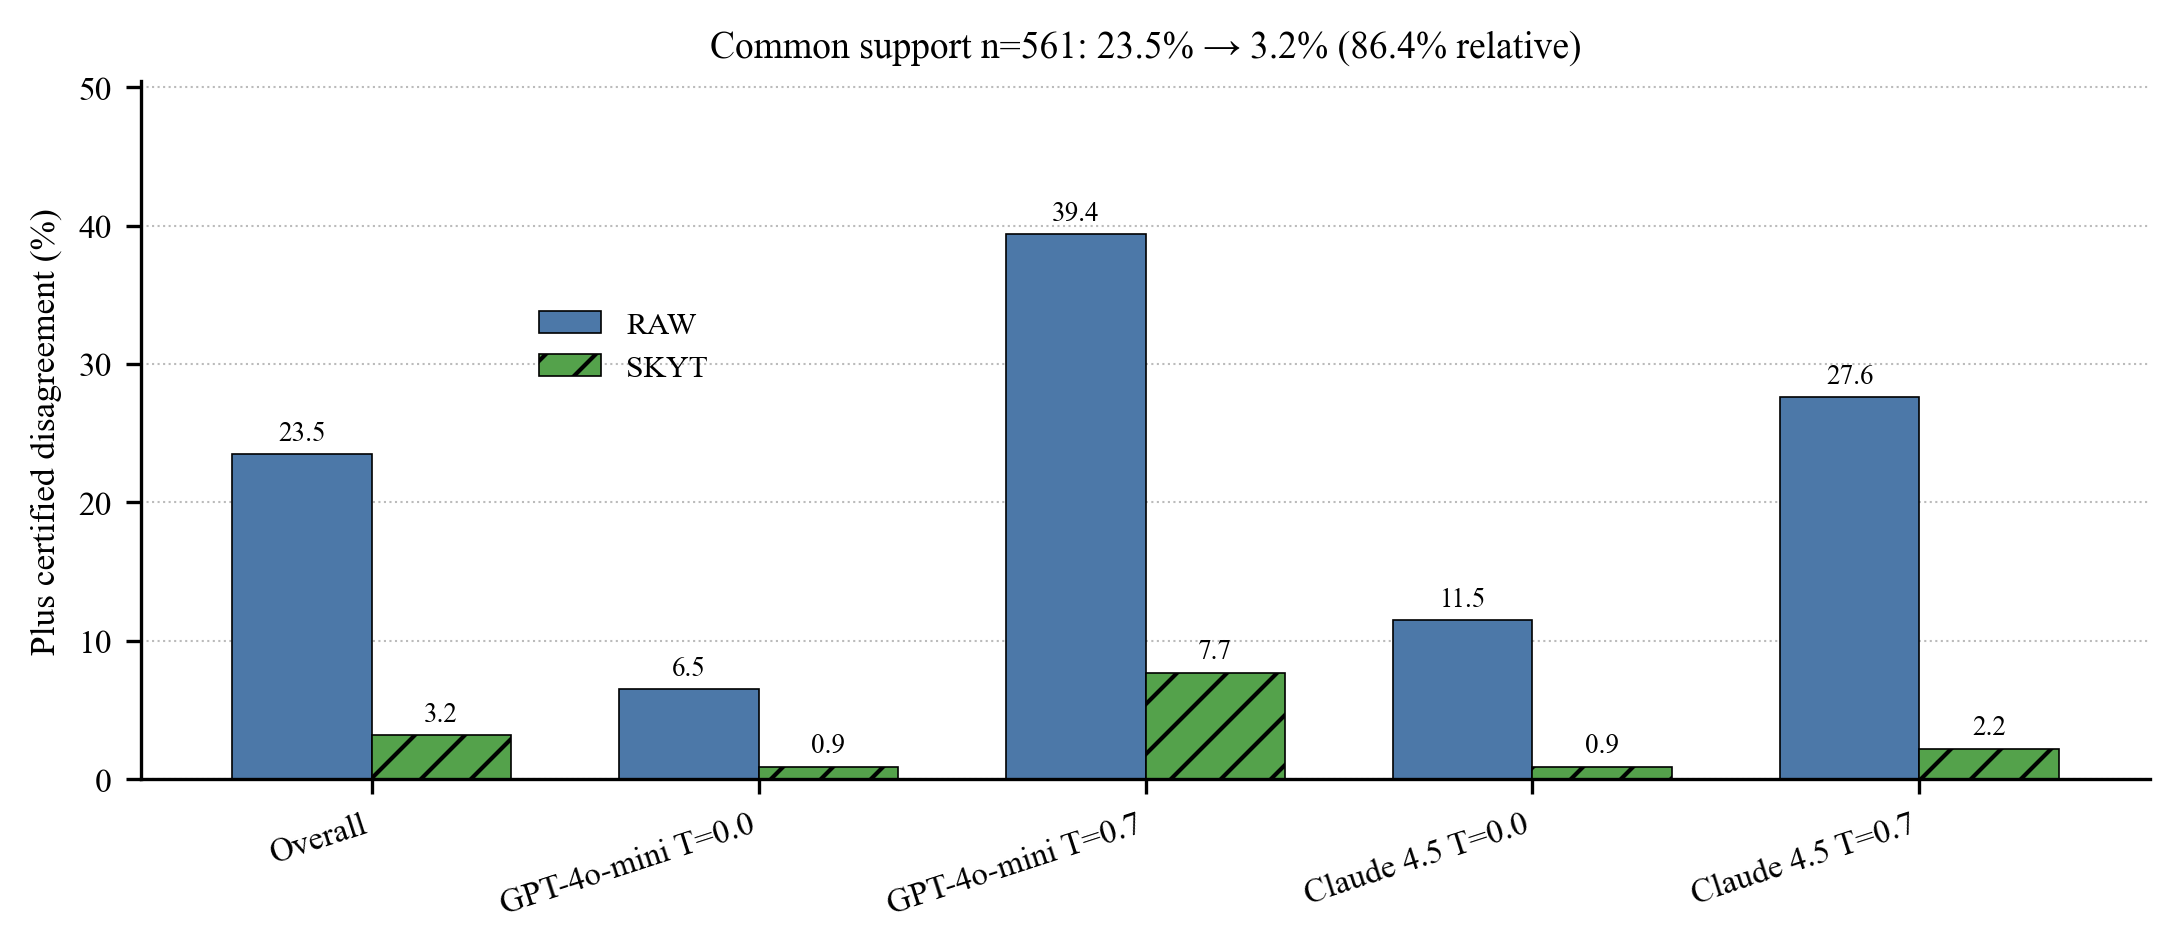
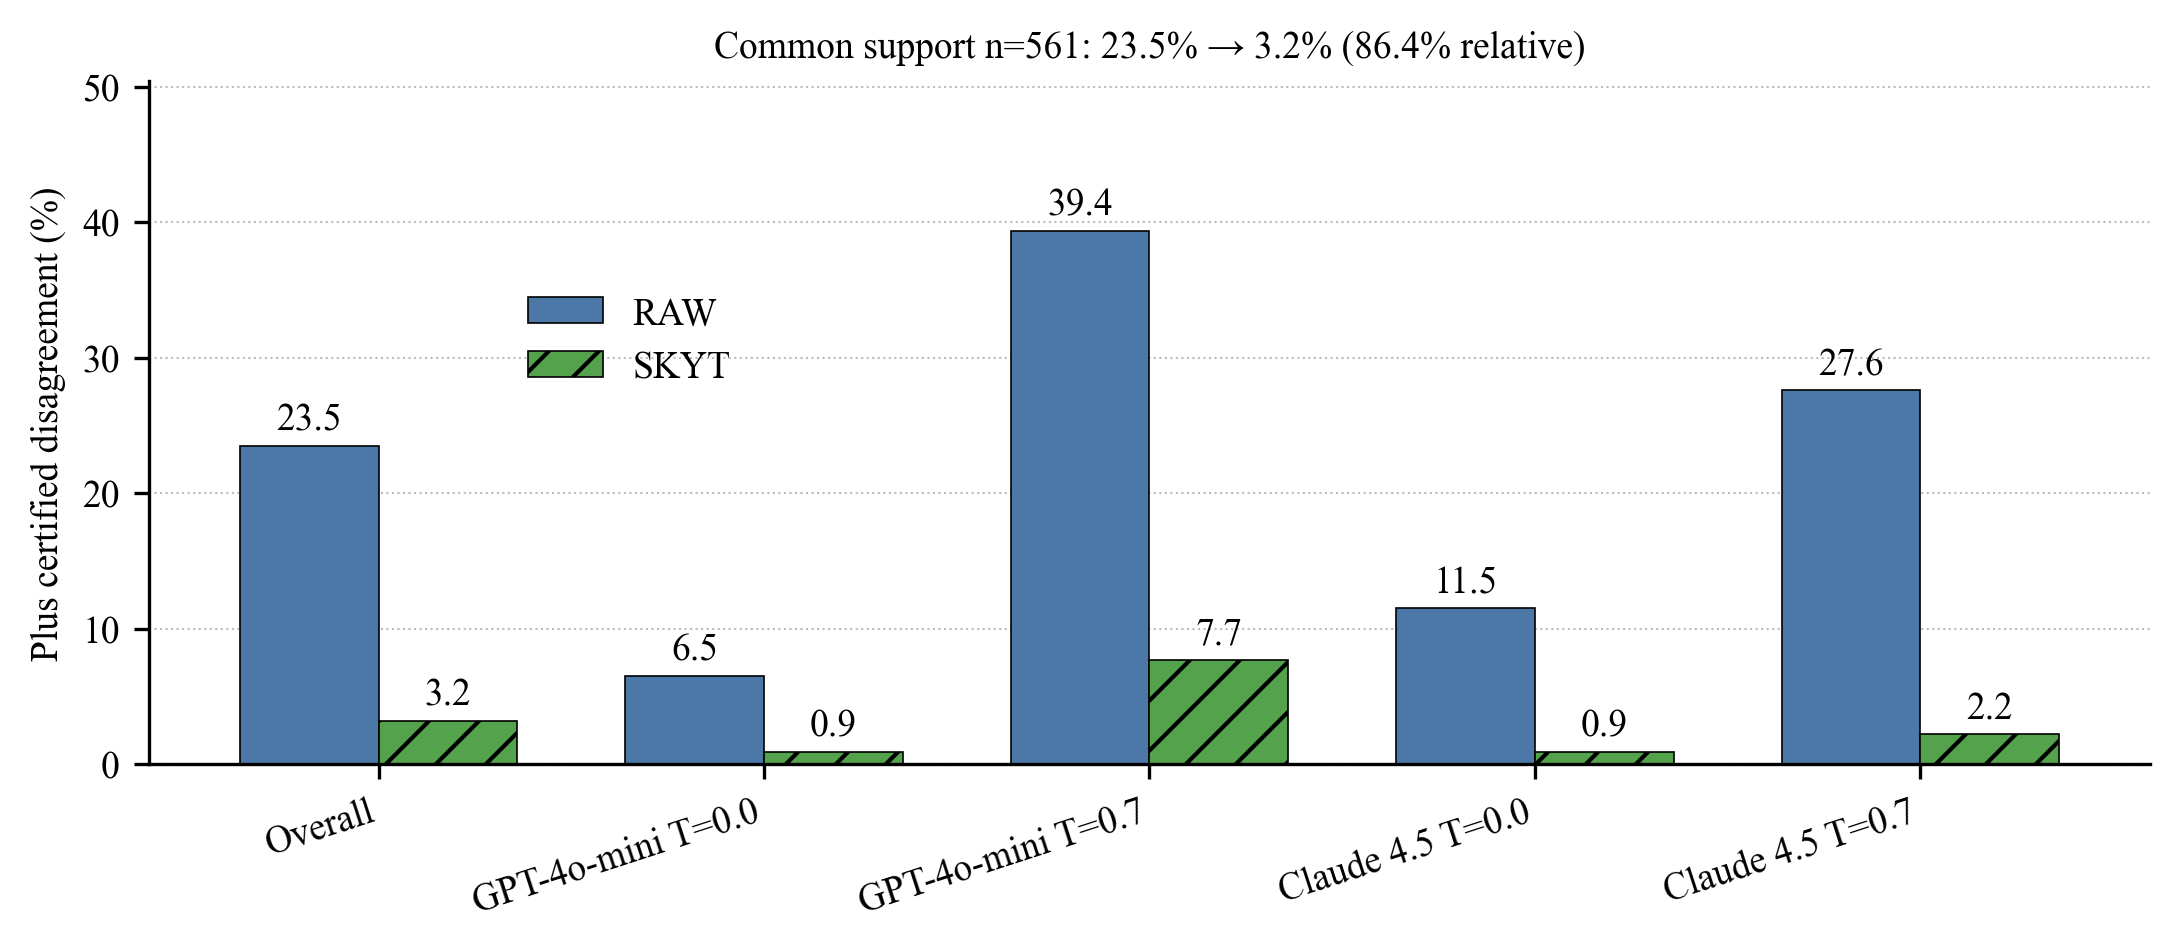
Apply the FSE round-3 corrections and include the dated RQ3 analysis plan.

diff --git a/paper/fse2027/main.tex b/paper/fse2027/main.tex
@@ -157,7 +157,7 @@ four questions.
         is 67.7\%; temperature lowers \sameat{} while Plus pass moves by at most 0.8 points (every CI within $\pm$2.4); generation
         can be repeatably wrong, so \sameat{} is not a proxy for hidden-test
         correctness (exploratory); and among mitigation policies, a stored
-        program is the ceiling on static prompts while \skyt{}~\cite{roriz2026skytmsr}'s lift comes
+        program is the ceiling on static prompts while the lift of \skyt{}~\cite{roriz2026skytmsr} comes
         from canonical substitution.
   \item An artifact with all generations, the scorer, a protocol checklist,
         and recompute commands (Data Availability).
@@ -394,6 +394,12 @@ Its output budget was 16{,}000 tokens (2{,}048 for the other models); one
 response exceeded 2{,}048 output tokens, so the larger budget affected at most one of 3{,}280 responses (thinking tokens included).
 Expansion generations used the Batch API; the original two models were called
 synchronously.
+Returned identifiers:
+GPT-4o-mini (alias; generated 17--18 September 2026);
+Claude Sonnet 4.5 \path{claude-sonnet-4-5-20250929} (generated 16--18 September 2026);
+Claude Haiku 4.5 \path{claude-haiku-4-5-20251001} (generated 24--25 September 2026);
+GPT-6 Luna \path{gpt-6-luna} (alias; generated 24--25 September 2026);
+Claude Sonnet 5 \path{claude-sonnet-5} (alias; generated 24--25 September 2026).
 Completions are stitched onto the prompt and scored in network-disabled
 Docker; untrusted code is never executed on the host.
 Fingerprints use \texttt{relation\_version}=2.
@@ -434,7 +440,7 @@ No repaired (post-\skyt{}) programs were labeled.
 \subsection{Exploratory analysis (RQ3)}
 We ask whether form diversity among Base-passing programs carries information
 about Extra-test failure beyond the Base pass rate.
-The analysis was pre-registered on the original overlay; the replication uses
+The analysis was pre-specified on the original overlay, in a dated analysis plan included in the artifact; the replication uses
 all five models (1{,}476 configurations, including Sonnet 5).
 Forms are fingerprint classes computed only on Base-passers.
 A program's modal form is the largest class among the other Base-passers in
@@ -449,7 +455,7 @@ Confirmatory: the RQ1 gap; RQ2 human agreement (pre-specified protocol) and
 rank comparison (pre-specified decision rule); RQ4 held-out $\Delta$\sameat{},
 certified disagreement, and temperature interaction.
 Descriptive: RQ2 reliability.
-Exploratory: RQ3 (pre-registered on the original overlay; five-model
+Exploratory: RQ3 (pre-specified on the original overlay; five-model
 replication).
 Post hoc: the paired temperature CIs in Table~\ref{tab:temperature}; the
 prevalence-reweighted human rates in Section~\ref{sec:rq2}; the
@@ -490,7 +496,7 @@ the statistical design, and check the manuscript against computed results:
 ChatGPT 5.6 Sol (High), Claude Opus 5.5, and Grok 4.7 (High) through Cursor.
 All reported numbers are printed by the scripts listed in Data Availability.
 The authors made all design and interpretation decisions; the exploratory
-analyses were pre-registered in writing before computation.
+analyses were pre-specified in writing before computation.
 Outputs were verified in four ways: every reported number is produced by a
 script in the artifact and was checked against its JSON output; rescoring the
 original overlay with the current code reproduces its numbers exactly; the
@@ -729,11 +735,11 @@ $N{=}10$.}
 \subsection{RQ3: Repeatability and hidden-test correctness}
 \label{sec:rq3}
 
-The analyses below were pre-registered on the original overlay and are
+The analyses below were pre-specified on the original overlay and are
 exploratory; the five-model pool (1{,}476 configurations, including Sonnet 5)
 is a replication, and the uniformity check is post hoc.
 
-On the pre-registered overlay, form diversity carried no detectable signal
+On the pre-specified overlay, form diversity carried no detectable signal
 about hidden-test failure beyond the pass rate (Table~\ref{tab:diversity-signal}, Figure~\ref{fig:diversity-signal}).
 Among Base-passing programs, modal and non-modal forms survived Extra tests at
 rates within 1.4 points of each other ($\Delta{=}0.06$ points [$-1.4$, 1.4]).
@@ -752,16 +758,15 @@ Task-level factors such as specification ambiguity may drive both.
 
 Configurations whose Base-passing programs all shared one form still failed
 Extra tests 10.7\% of the time: generation can be repeatably wrong.
-When any Base-passer failed Extra tests, all of them failed in 65.0\%
-[50.0, 80.3] of configurations (five-model replication: 53.0\%
-[39.6, 66.7]), consistent with a shared misreading of the specification
-rather than the quirks of one form.
+When any Base-passer failed Extra tests, all of them failed in 53.3\%
+[34.7, 72.0] of configurations that have at least two distinct Base-passing
+forms (five-model replication: 41.5\% [27.8, 56.0]) (post hoc uniformity check).
 
 \begin{table}[t]
   \small
   \setlength{\tabcolsep}{4pt}
   \caption{Diversity and Extra-test failure (exploratory).
-    Rows ``original'' are the pre-registered overlay (GPT-4o-mini, Claude
+    Rows ``original'' are the pre-specified overlay (GPT-4o-mini, Claude
     Sonnet 4.5; 656 configs); rows ``replication'' pool all five models
     (1{,}476 configs).
     A1: Extra survival of modal versus non-modal Base-passers.
@@ -972,7 +977,7 @@ Canonical substitution can produce a lift at least as large as live \skyt{};
 live \skyt{} is the more conservative policy.
 Level 3 does not invent an algorithm: it pastes a stored verified function.
 The dominant source of zero gain is the absence of a certified train consensus
-(87 of 656 configurations).
+on the Base oracle-split design (29 of 656 configurations).
 The largest lifts match the mechanism: for HumanEval/83 under GPT-4o-mini at
 $T{=}0.7$, pre-\sameat{} is near 0 and \skyt{} rewrites the test slice onto the
 train form (post \sameat{} 1.0; Plus pass 29\% $\to$ 100\%); for HumanEval/109
@@ -1003,9 +1008,10 @@ from 4.9\% to 100\%.
 The lift survives all three rulers ($+14.9$, $+15.4$, $+17.1$ points;
 Table~\ref{tab:fingerprint}). These come from a persist replay of the repaired programs, which matches the held-out run in Table~\ref{tab:heldout} ($66.1\rightarrow 83.1$, $+17.0$) to 0.1 points.
 Using the full Plus suite during repair yields an almost identical effect
-($+17.0$ [14.5, 19.6]; Plus pass $+2.4$ [1.5, 3.5]; the \sameat{} effect equals the headline at the reported precision (same bootstrap seed); certified disagreement
+($+17.0$ [14.5, 19.6]; Plus pass $+2.4$ [1.5, 3.5]; certified disagreement
 23.2\% $\to$ 3.5\% on 562 configs), so the result does not depend on which
 tests \skyt{} sees.
+The \sameat{} effect equals the headline at the reported precision; both runs use the same bootstrap seed.
 Nested split counts $B\in\{20,50,100,500\}$ move the lift from $+17.1$ (persist replay) to
 $+17.3$ points, inside the original interval.
 
@@ -1057,7 +1063,7 @@ agrees with human judgment (step~6) before drawing conclusions from comparisons 
     5. Report together &
       Report pass rate, \sameat{}, and \sameatc{} with its drop count, with
       task-cluster bootstrap CIs. Never report \sameatc{} alone. &
-      Pass and \sameat{} diverge (RQ1); \sameatc{} rises as pass falls
+      Pass and \sameat{} diverge (RQ1); \sameatc{} can rise as pass falls
       (Section~\ref{sec:measures}). \\
     6. Calibrate the ruler &
       Check stricter rulers; label a stratified sample of pairs (by

diff --git a/paper/fse2027/make_figure_skyt.py b/paper/fse2027/make_figure_skyt.py
@@ -157,6 +157,16 @@ def _disagreement_post(row: dict) -> float:
 
 def make_disagreement(report: dict, out_stem: Path) -> None:
     _style()
+    plt.rcParams.update(
+        {
+            "font.size": 9,
+            "axes.labelsize": 9,
+            "axes.titlesize": 9,
+            "xtick.labelsize": 9,
+            "ytick.labelsize": 9,
+            "legend.fontsize": 9,
+        }
+    )
     overall = _slice_by_label(report, "all")
     labels = ["Overall"] + list(CELL_LABELS.values())
     keys = ["all"] + list(CELL_LABELS)
@@ -196,9 +206,9 @@ def make_disagreement(report: dict, out_stem: Path) -> None:
         f"({rel}% relative)"
     )
     for xpos, height in zip(x - width / 2, pre):
-        ax.text(xpos, height + 0.6, f"{height:.1f}", ha="center", va="bottom", fontsize=6.5)
+        ax.text(xpos, height + 0.6, f"{height:.1f}", ha="center", va="bottom", fontsize=9)
     for xpos, height in zip(x + width / 2, post):
-        ax.text(xpos, height + 0.6, f"{height:.1f}", ha="center", va="bottom", fontsize=6.5)
+        ax.text(xpos, height + 0.6, f"{height:.1f}", ha="center", va="bottom", fontsize=9)
     ax.legend(frameon=False, loc="center", bbox_to_anchor=(0.24, 0.62))
     ax.set_axisbelow(True)
     ax.yaxis.grid(True, linestyle=":", linewidth=0.5, color="#bbbbbb")
@@ -229,10 +239,10 @@ def make_lift_scatter(out_stem: Path) -> None:
         ceiling,
         100.0 - ceiling,
         color="#333333",
-        linewidth=0.9,
+        linewidth=1.2,
         linestyle="--",
         label="lift = 100 − baseline",
-        zorder=1,
+        zorder=3,
     )
     ax.axhline(0.0, color="#888888", linewidth=0.6)
     ax.set_xlim(-2, 104)

diff --git a/paper/fse2027/make_figure_diversity.py b/paper/fse2027/make_figure_diversity.py
@@ -18,6 +18,14 @@ REPO = PAPER.parents[1]
 REPORT = REPO / "outputs" / "benchmark" / "diversity_signal" / "diversity_signal.json"
 OUT = PAPER / "figures" / "fig_diversity_signal.pdf"
 
+# Same model x temperature colors as Figure 3 (make_figure_skyt.COLORS).
+COLORS = {
+    "gpt-4o-mini T=0.0": "#4C78A8",
+    "gpt-4o-mini T=0.7": "#72B7B2",
+    "claude-sonnet-4-5-20250929 T=0.0": "#F58518",
+    "claude-sonnet-4-5-20250929 T=0.7": "#E45756",
+}
+
 BIN_ORDER = ("D=0", "T1", "T2", "T3")
 BIN_LABELS = ("D = 0", "T1", "T2", "T3")
 
@@ -54,7 +62,6 @@ def _pretty(cell: str) -> str:
 def make_figure(report: dict, out_path: Path) -> None:
     _style()
     cells = list(report["bins"]["cells"])
-    colors = ["#4C78A8", "#72B7B2", "#F58518", "#E45756", "#54A24B", "#B279A2"]
     x = np.arange(len(BIN_ORDER))
     width = 0.8 / max(len(cells), 1)
     fig, ax = plt.subplots(figsize=(5.2, 3.2), layout="constrained")
@@ -83,7 +90,7 @@ def make_figure(report: dict, out_path: Path) -> None:
             heights,
             width=width * 0.92,
             label=_pretty(cell),
-            color=colors[index % len(colors)],
+            color=COLORS[cell],
             yerr=np.vstack([lows, highs]),
             capsize=2,
             error_kw={"elinewidth": 0.6},

diff --git a/benchmark/diversity_signal.py b/benchmark/diversity_signal.py
@@ -26,7 +26,7 @@ from benchmark.score import _iter_jsonl
 from benchmarks.humaneval_plus.provenance import atomic_write_json
 
 REPO_ROOT = Path(__file__).resolve().parents[1]
-PREREG_RELATIVE = Path("docs/internal/DIVERSITY_SIGNAL_PREREG_2026-09-24.md")
+PREREG_RELATIVE = Path("paper/fse2027/rq3_analysis_plan_2026-09-24.md")
 BOOTSTRAP_SEED = 20260723
 
 ConfigKey = Tuple[str, str, Optional[float]]

diff --git a/paper/fse2027/rq3_analysis_plan_2026-09-24.md b/paper/fse2027/rq3_analysis_plan_2026-09-24.md
@@ -1,0 +1,73 @@
+# Diversity as a defect signal — pre-registration
+
+**Created:** 2026-09-24
+**Status:** written before any diversity-signal result was computed.
+**Exploratory.** No API calls. Read-only on existing generation trees.
+
+> Hypotheses: (H1) Base-passing programs in the configuration's modal form survive Extra tests more often than Base-passing programs in other forms. (H2) Configurations with higher form diversity among Base-passers have higher Extra-failure rates among Base-passers, including after controlling for Base pass rate. Both are exploratory. All results will be reported regardless of direction or significance.
+
+Schema confirmed before this note (frozen overlay `outputs/benchmark/humaneval_plus_164_n20/`, 13,120 records):
+
+- Configuration fields: `task_id`, `model`, `temperature`.
+- Per generation: `oracle.base_passed`, `oracle.plus_passed`. Code for `same()` is `stitched_code`.
+- `fingerprint()` (`benchmark/relation.py`) returns a hashable MD5 of the canonical tree. `same()` is equality of those hashes. Forms are groups of that key, not a pairwise union-find.
+- `plus_passed` implies `base_passed` on every record (0 violations). Extra survival given Base pass is `plus_passed` among Base-passers.
+
+## 3. Definitions
+
+Configuration **c** = (task, model, temperature). N = 20 generations per configuration.
+
+- **B_c** = Base-passing generations in c. **n_c** = |B_c|.
+- **Forms** = equivalence classes of B_c under `same()` (relation_version=2).
+- **Extra survival** of a program = `plus_passed` (given it is in B_c).
+- **F_c** = Extra-failure rate among Base-passers = 1 − (Extra-surviving programs in B_c) / n_c.
+- **D_c** (primary diversity) = 1 − same@2 among Base-passers
+  = 1 − Σ_k m_k(m_k − 1) / (n_c(n_c − 1)), where m_k are form class sizes in B_c.
+  This is **1 − Base-certified same@2**, which ties the analysis directly to the SameEval metric.
+- Secondary diversity measures (report, do not headline): number of distinct forms; Shannon entropy of form shares.
+
+**Leave-one-out (LOO) modal form** for program i ∈ B_c:
+- Compute form class sizes on B_c \ {i}.
+- The LOO mode is the largest class. If two or more classes tie for largest, program i is **unclassified** (excluded from A1).
+- Program i is **modal** if its form equals the LOO mode; otherwise **non-modal**.
+- LOO prevents a program from voting for its own form.
+
+**Exclusions** (report counts for each):
+- A1 and A2: configurations with n_c < 2.
+- A1: configurations without at least one modal **and** one non-modal classified program (no within-configuration contrast).
+- A1: unclassified programs (LOO ties).
+
+**Never use Extra results to define forms, modes, or diversity.** Extra is outcome only.
+
+## 4. Analyses
+
+All CIs: task-cluster bootstrap, 10,000 resamples, seed **20260723**, resampling tasks **jointly** across all model × temperature cells. Point estimates: aggregate configurations within task, then average across tasks (same convention as the paper).
+
+### A1 — Modal vs. non-modal Extra survival (H1)
+
+Per eligible configuration c:
+- s_mod(c) = Extra survival rate among modal programs
+- s_non(c) = Extra survival rate among non-modal programs
+- Δ_c = s_mod(c) − s_non(c)
+
+Report:
+- Pooled mean s_mod, s_non, and Δ with 95% CI.
+- Same for each model × temperature cell.
+- Number of eligible configurations and tasks.
+- Descriptive only: generation-pooled survival rates for modal vs. non-modal (no CI needed).
+
+### A2 — Diversity vs. Extra failure (H2)
+
+Per configuration with n_c ≥ 2:
+- **Primary:** Spearman ρ(D_c, F_c) with 95% CI.
+- **Control for Base pass rate:** partial Spearman ρ(D_c, F_c | n_c/20) with 95% CI. This is the "information beyond pass@k" test.
+- **Within-task:** Spearman ρ on task-demeaned D_c and F_c (removes task difficulty), with 95% CI.
+- **Binned descriptive:** D_c = 0 vs. D_c in tertiles of positive values; mean F_c per bin (for the figure).
+- Repeat primary ρ per model × temperature cell.
+- Sensitivity: restrict to n_c ≥ 10; report primary and partial ρ.
+
+**Do not** use "any Extra failure in the configuration" as an outcome. With more distinct forms, the chance that at least one form fails rises mechanically. Use the rate F_c only.
+
+### A3 — Cross-check (sanity, not reported as a result)
+
+For 5 random configurations, confirm D_c computed here equals 1 − same@2|cert computed by the existing scorer **when certification is Base**. If the existing scorer only certifies on Plus, compute both here and confirm the Plus version matches the scorer exactly. Fail loudly on mismatch.

diff --git a/README.md b/README.md
@@ -77,7 +77,7 @@ python -m benchmark.diversity_signal --trees outputs/benchmark/humaneval_plus_16
 python -m benchmark.diversity_signal --trees outputs/benchmark/humaneval_plus_164_n20 outputs/benchmark/humaneval_plus_164_n20_expansion/haiku45 outputs/benchmark/humaneval_plus_164_n20_expansion/luna outputs/benchmark/humaneval_plus_164_n20_expansion/sonnet5 --out outputs/benchmark/diversity_signal_model_replication
 ```
 
-The first command prints the pre-registered rows. The second prints the five-model replication.
+The first command prints the pre-specified rows. The second prints the five-model replication. The dated RQ3 analysis plan is `paper/fse2027/rq3_analysis_plan_2026-09-24.md`.
 
 **Level ablation.** The second command is the Level-2 replay and requires Docker.
 
